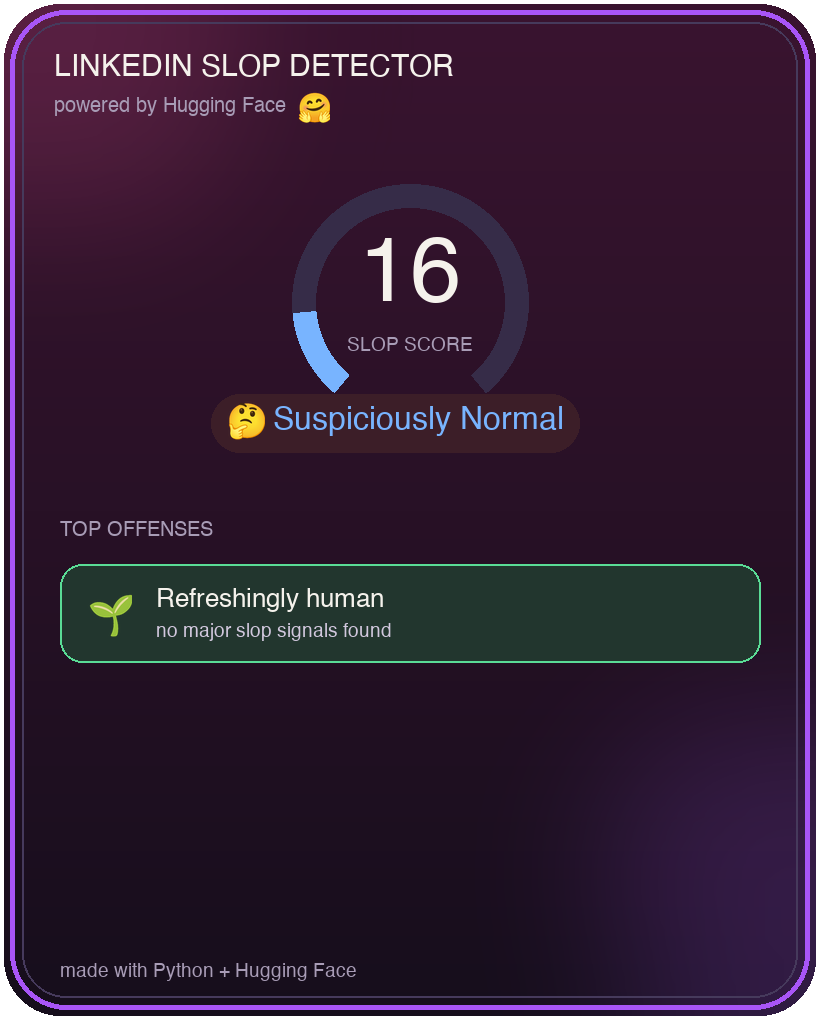
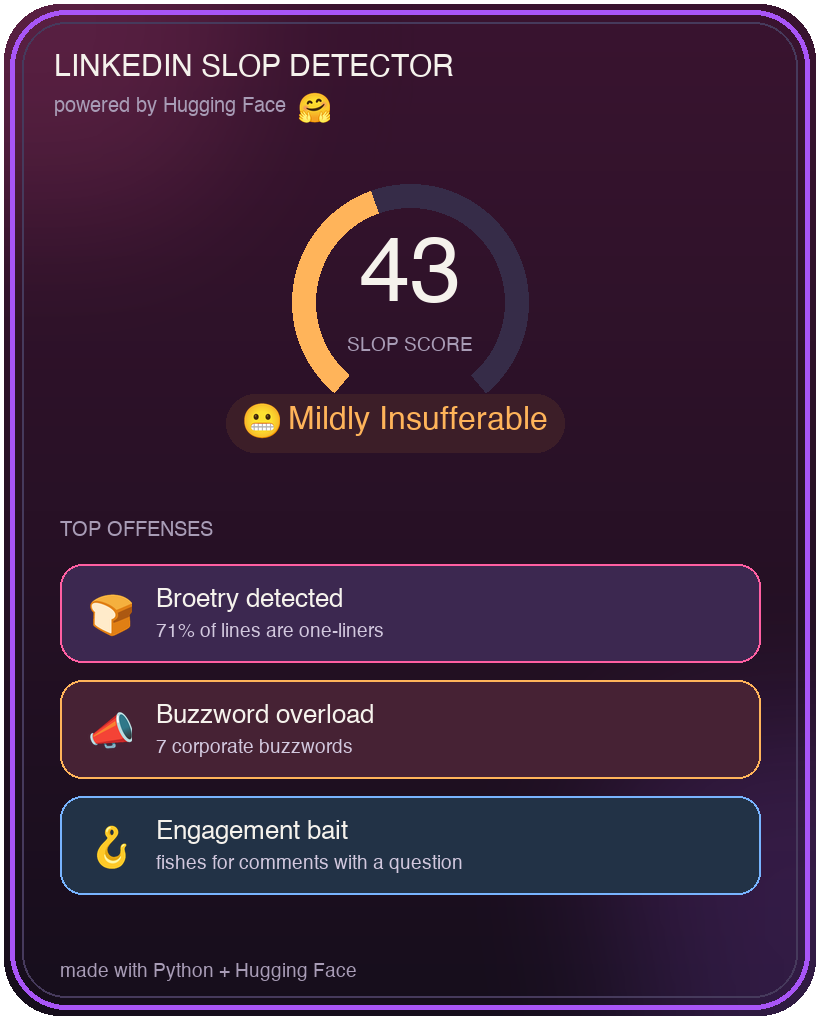
tailoring the TUTORIAL.md to beginners and removing redundant code

Changed region(s): [[0.061, 0.5471, 0.9451, 0.8814], [0.2744, 0.1824, 0.7012, 0.4559]]

diff --git a/test.py b/test.py
@@ -1,6 +1,6 @@
 import os, requests
 from dotenv import load_dotenv
-from card import make_card, offense_count
+from card import make_card
 
 load_dotenv()
 HF_TOKEN = os.environ.get("HF_TOKEN")
@@ -8,9 +8,6 @@ HF_URL = "https://router.huggingface.co/hf-inference/models/facebook/bart-large-
 BUZZWORDS = ["humbled", "thrilled to announce", "synergy", "leverage",
              "thought leader", "grateful", "blessed", "move the needle"]
 CLOSERS = ["agree?", "thoughts?", "comment below", "repost if"]
-ANTITHESIS = ["it's not just", "it's not about", "isn't just", "isn't about",
-              "isn't always", "isn't only", "not just about", "it's not that",
-              "no longer"]
 
 def count_hits(text, phrases):
     return sum(text.lower().count(p) for p in phrases)
@@ -46,9 +43,21 @@ def rule_signals(text):
     score += min(12, emoji_bullets * 2)
     score += min(12, max(0, text.count("#") - 2) * 2)
     score += min(8, max(0, dashes - 3) * 3)
-    score += min(10, count_hits(text, ANTITHESIS) * 6)
     score += min(12, anaphora_hits(text) * 3)
     return min(80, score)
+
+def offense_count(signals):
+    """How many slop signals tripped their threshold (the boxes on the card)."""
+    flags = [
+        signals["broetry"] >= 0.4,
+        signals["buzzwords"] >= 1,
+        signals["closers"] >= 1,
+        signals["hashtags"] >= 4,
+        signals["emoji_bullets"] >= 2,
+        signals["dashes"] > 3,
+        signals["anaphora"] >= 2,
+    ]
+    return sum(flags)
 
 def hf_performative_score(text, token):
     labels = ["humble authentic personal story",
@@ -69,9 +78,36 @@ def verdict(score):
 
 def main():
     text = """"
-Christina Koch (44) is an electrical engineer. She holds the record for longest continuous time in space by a woman, of 328 days. Victor Glover (46) is a US Navy test pilot. He joined Nasa in 2013 and made his first spaceflight in 2020. He was the first Black person to stay on the space station for an extended period of six months. 
+She Plays To Win STEM Challenge Day for Secondary School Girls 
+📅 26 June 2026
+🎓 Secondary School Girls STEM Challenge Day in London 
+👩🎓 Empowering girls through Chess♟️ | Maths 🔢 | Coding 💻
+Giving Girls the Best Opening Move in Life
 
-Congratulations are in order to Koch and Glover for paving the way for women and people of color.
+We are thrilled to host this amazing day with several secondary school girls and invite inspiring STEM professionals, industry leaders, innovators and role models coming together to empower the next generation of girls:
+♟️ Strategic Thinking through Chess
+💻 Creative Problem Solving through Coding
+🔢 Mathematical Confidence & Challenge
+🚀 Real-World STEM Inspiration
+
+Hugely indebted to FundApps Get with the Program Aila Money Fai M.
+STEM Learning UK 
+
+Thankful to each of our speakers for making time to join us and share their career journeys and run sessions to inspire a future engineer, scientist, technologist, entrepreneur, data scientist or innovator! Jeni Trice Nitika Vyas, CFA 
+
+Credit to the Founder Lorin D'Costa, our Trustees Kanwal Bhatia Dipal Patel Jennifer Gelain-Sohn Naheed Vyas Rashmi Prabhakar, our Volunteers Alisha Vyas Emmanuelle Gelain-Sohn for sparing time to further this cause. And some of our supporters and allies Nadia Edwards-Dashti Charlotte de Metz 
+
+By sharing experiences, challenges and successes, we can help girls see what is possible when talent meets opportunity:
+✨ Be the role model you wish you'd had.
+✨ Inspire confidence and ambition.
+✨ Help unlock future STEM careers.
+
+Empowering Girls. Building Confidence. Solving Problems, Creating Futures.
+www.sheplaystowin.co.uk
+
+hashtag#GivingGirlsTheBestOpeningMoveInLife hashtag#ShePlaysToWin hashtag#STEMChallengeDay hashtag#GirlsinSTEM hashtag#WomenInTech hashtag#FutureLeaders hashtag#GirlsInTech hashtag#GirlsWhoCode hashtag#ChessInEducation hashtag#STEMEducation hashtag#RoleModelsMatter hashtag#DiversityInTech hashtag#InspiringTheFuture hashtag#SecondarySchools hashtag#STEMCareers
+
+Chess♟️ | Maths 🔢 | Coding 💻
 
 """
 
@@ -86,7 +122,6 @@ Congratulations are in order to Koch and Glover for paving the way for women and
         "hashtags": text.count("#"),
         "emoji_bullets": sum(1 for l in lines if not l[0].isascii()),
         "dashes": count_dashes(text),
-        "antithesis": count_hits(text, ANTITHESIS),
         "anaphora": anaphora_hits(text),
     }
 

diff --git a/card.py b/card.py
@@ -65,8 +65,6 @@ def _offense_list(sig):
         n=sig["buzzwords"]; out.append(("📣","Buzzword overload", f"{n} corporate buzzword{'s' if n!=1 else ''}", AMBER,(70,34,52)))
     if sig.get("closers",0) >= 1:
         out.append(("🪝","Engagement bait", "fishes for comments with a question", BLUE,(34,50,70)))
-    if sig.get("antithesis",0) >= 1:
-        out.append(("🔁","AI antithesis", '"it\'s not X, it\'s Y" phrasing', PURPLE,(48,38,70)))
     if sig.get("hashtags",0) >= 4:
         out.append(("#️⃣","Hashtag pileup", f"{sig['hashtags']} hashtags", PURPLE,(48,38,70)))
     if sig.get("emoji_bullets",0) >= 2:
@@ -78,10 +76,6 @@ def _offense_list(sig):
     if sig.get("anaphora",0) >= 2:
         out.append(("🔁","Anaphora spam", f"{sig['anaphora']} lines reuse the same opener", PURPLE,(48,38,70)))
     return out
-
-def offense_count(sig):
-    """How many real offense boxes the card will show."""
-    return len(_offense_list(sig))
 
 def _offenses(sig):
     out = _offense_list(sig)

diff --git a/TUTORIAL.md b/TUTORIAL.md
@@ -130,7 +130,7 @@ HF_URL = "https://router.huggingface.co/hf-inference/models/facebook/bart-large-
 
 ## Add the phrases we're hunting for
 
-A lot of slop is detectable with simple patterns before we even touch AI. Let's list the classic tells: buzzwords and engagement-bait closers.
+A lot of slop is detectable with simple patterns before we even touch AI. Let's list two classic tells: corporate buzzwords and engagement-bait closers (the lines that beg for a reaction).
 
 ```python
 BUZZWORDS = ["humbled", "thrilled to announce", "synergy", "leverage",
@@ -138,41 +138,78 @@ BUZZWORDS = ["humbled", "thrilled to announce", "synergy", "leverage",
 CLOSERS = ["agree?", "thoughts?", "comment below", "repost if"]
 ```
 
-These are the phrases that show up in a lot of slop posts.
+These are phrases that show up in a lot of slop posts.
 
-## Add a helper to count phrases
+## Add the helper functions
 
-This little function counts how many times any phrase from a list shows up in the text.
+Each of these measures one slop signal. `count_hits` is a reusable helper that counts how many phrases from *any* list you hand it appear in the text (we'll point it at `BUZZWORDS` and `CLOSERS`). `engagement_bait` flags closers plus any post that ends on a question, `count_dashes` counts the dashes LLMs love, and `anaphora_hits` catches repeated line-openers (the "Culture is built when... / No more X..." pattern).
 
 ```python
 def count_hits(text, phrases):
     return sum(text.lower().count(p) for p in phrases)
+
+def engagement_bait(text):
+    hits = count_hits(text, CLOSERS)
+    if text.strip().endswith("?"):
+        hits += 1
+    return hits
+
+def count_dashes(text):
+    return text.count("—") + text.count("–") + text.count(" - ")
+
+def anaphora_hits(text):
+    from collections import Counter
+    lines = [l.strip() for l in text.splitlines() if l.strip()]
+    starts = Counter(" ".join(l.lower().split()[:2]) for l in lines if len(l.split()) >= 2)
+    return sum(c for c in starts.values() if c >= 2)
 ```
 
-We lowercase the text first so "Synergy" and "synergy" both count, then add up every match.
+`count_hits` lowercases first so "Synergy" and "synergy" both count. `anaphora_hits` groups lines by their first two words and counts any opener that repeats, since a real person rarely starts three lines exactly the same way.
 
 ## Add the rule signals
 
-Now the scoring function. It measures a few signals and turns them into a subscore out of 60.
+Now the scoring function. It measures a handful of signals and turns them into a subscore out of 80. Each `min()` cap is that signal's weight.
 
 ```python
 def rule_signals(text):
     lines = [l.strip() for l in text.splitlines() if l.strip()]
-    short = sum(1 for l in lines if len(l.split()) <= 5)
-    broetry = short / len(lines) if lines else 0
+    short = sum(1 for l in lines if len(l.split()) <= 6)
+    # only trust the one-liner ratio once there are enough lines to be meaningful
+    broetry = short / len(lines) if len(lines) >= 6 else 0
     emoji_bullets = sum(1 for l in lines if not l[0].isascii())
-    dashes = text.count("—") + text.count("–")
+    dashes = count_dashes(text)
 
     score = min(20, broetry * 28)
     score += min(14, count_hits(text, BUZZWORDS) * 4)
-    score += min(10, count_hits(text, CLOSERS) * 6)
-    score += min(8, emoji_bullets * 2)
-    score += min(8, max(0, text.count("#") - 2) * 2)
+    score += min(12, engagement_bait(text) * 6)
+    score += min(12, emoji_bullets * 2)
+    score += min(12, max(0, text.count("#") - 2) * 2)
     score += min(8, max(0, dashes - 3) * 3)
-    return min(60, score)
+    score += min(12, anaphora_hits(text) * 3)
+    return min(80, score)
 ```
 
-A few things are happening here. **Broetry** is the fraction of lines that are tiny one-liners, the signature LinkedIn format. **Emoji bullets** uses a neat trick: `isascii()` is `False` for emoji, so a line *starting* with one is almost certainly a ✨ decorative ✨ bullet. **Dashes** counts em-dashes (—) and en-dashes (–): more than three is a tell-tale sign of AI-generated text, since language models love them. Each signal is capped with `min()` so no single offense can max out the score on its own. These signals are *transparent*: you can see exactly why a post scored high.
+A few things are happening here. **Broetry** is the fraction of lines that are tiny one-liners, the signature LinkedIn format, but we only trust that ratio once a post has at least 6 lines, otherwise a 2-line post reads as "100% broetry" off a tiny sample. **Emoji bullets** uses a neat trick: `isascii()` is `False` for emoji, so a line *starting* with one is almost certainly a ✨ decorative ✨ bullet. **Dashes** counts em-dashes, en-dashes, and spaced hyphens (more than three is a strong AI tell). Each signal is capped with `min()`, and that cap is its weight, so no single offense can run away with the score. These signals are *transparent*: you can see exactly why a post scored high.
+
+## Count the offenses
+
+We also want to know *how many* signals tripped, not just the total. This count gates the verdict later: if nothing tripped, we shouldn't call a post slop no matter what the AI thinks. It reads the `signals` dict we'll build in `main()` in a moment.
+
+```python
+def offense_count(signals):
+    flags = [
+        signals["broetry"] >= 0.4,
+        signals["buzzwords"] >= 1,
+        signals["closers"] >= 1,
+        signals["hashtags"] >= 4,
+        signals["emoji_bullets"] >= 2,
+        signals["dashes"] > 3,
+        signals["anaphora"] >= 2,
+    ]
+    return sum(flags)
+```
+
+Each line is a simple threshold check, and `sum()` counts how many came back `True` (Python treats `True` as 1).
 
 ## Query the model
 
@@ -201,41 +238,58 @@ Now a function that maps a score to a verdict, so the number means something at 
 
 ```python
 def verdict(score):
-    if score >= 80: return "Certified Artisanal Slop 🥫"
-    if score >= 60: return "Peak LinkedIn Cringe 💼"
-    if score >= 40: return "Mildly Insufferable 😬"
+    if score >= 70: return "Certified Artisanal Slop 🥫"
+    if score >= 50: return "Peak LinkedIn Cringe 💼"
+    if score >= 30: return "Mildly Insufferable 😬"
+    if score >= 15: return "Suspiciously Normal 🤔"
     return "An Actual Human Wrote This 😮"
 ```
 
-Simple thresholds: the higher the score, the worse the verdict.
+Five tiers: the higher the score, the worse the verdict, with "Suspiciously Normal" as the gentle middle ground between clearly human and mildly slop.
 
 ## Wire it all together
 
-Finally, a `main()` function that runs everything. It guards against a missing token, scores a sample post, blends the two halves (rules out of 60, AI scaled to 40), and prints the result.
+Finally, a `main()` function that runs everything. It scores a sample post, builds the `signals` dict, and blends the two halves: if no offense boxes tripped, it trusts the AI alone (kept low), otherwise it scales the rules-plus-AI blend up by 1.4 to use the full range.
 
 ```python
 def main():
-    if not HF_TOKEN:
-        raise SystemExit("No token found. Add HF_TOKEN=hf_... to your .env file.")
-
     text = """I got rejected 100 times.
 Then everything changed.
 Here's what I learned 👇
-I'm humbled and grateful to announce I'm now a thought leader.
 We need to leverage synergy to move the needle.
+Culture is built when teams win.
+Culture is built when people care.
 Agree?
 #motivation #grindset #blessed"""
 
     rules = rule_signals(text)
     hf = hf_performative_score(text, HF_TOKEN)
-    score = round(min(100, rules + hf * 40))
+
+    lines = [l.strip() for l in text.splitlines() if l.strip()]
+    signals = {
+        "broetry": (sum(1 for l in lines if len(l.split()) <= 6) / len(lines)) if len(lines) >= 6 else 0,
+        "buzzwords": count_hits(text, BUZZWORDS),
+        "closers": engagement_bait(text),
+        "hashtags": text.count("#"),
+        "emoji_bullets": sum(1 for l in lines if not l[0].isascii()),
+        "dashes": count_dashes(text),
+        "anaphora": anaphora_hits(text),
+    }
+
+    if offense_count(signals) == 0:
+        # no tells flagged: lean on the AI alone, kept low
+        score = round(hf * 25)
+    else:
+        # scale the whole blend up to use the full range
+        score = round(min(100, (rules + hf * 40) * 1.4))
+
     print(f"\n  Slop Score: {score}/100  —  {verdict(score)}\n")
 
 if __name__ == "__main__":
     main()
 ```
 
-Splitting the score this way is deliberate: if the AI is unsure, the transparent rules still ground the result, and vice versa. A genuinely useful pattern for any "AI + heuristics" project. To score a different post, just swap the text between the `"""` triple quotes.
+Two ideas make this robust. The `signals` dict holds every raw signal, and `offense_count` reads it to gate the verdict: a post with zero tripped signals can't be slop, so we lean on the AI alone and keep the score low. Everything else gets the full blended score, scaled up so the mid-range fills in. To score a different post, just swap the text between the `"""` triple quotes.
 
 ## Run the project
 
@@ -244,7 +298,7 @@ python slop.py
 ```
 
 ```
-  Slop Score: 88/100  —  Certified Artisanal Slop 🥫
+  Slop Score: 43/100  —  Mildly Insufferable 😬
 ```
 
 Try it on posts from your feed. The worse the post, the higher the score.
@@ -256,22 +310,16 @@ A terminal score is fun, but you want something to *post*. Grab two files from t
 - **[`card.py`](https://github.com/anp-exe/detect-ai-slop-tutorial/blob/main/card.py)**: the card generator
 - **`NotoColorEmoji.ttf`**: the emoji font, so your card looks the same on every computer
 
-Add the import at the top of `slop.py`, then build the signals dict and call `make_card` at the end of `main()`. The card needs the raw signals (not the verdict text) so it can list your top offenses:
+You already built the `signals` dict in `main()`, so the card just needs two lines. Add the import at the top of `slop.py`:
 
 ```python
 from card import make_card
+```
 
-# gather the same signals the card needs, then draw it
-lines = [l.strip() for l in text.splitlines() if l.strip()]
-signals = {
-    "broetry": (sum(1 for l in lines if len(l.split()) <= 5) / len(lines)) if lines else 0,
-    "buzzwords": count_hits(text, BUZZWORDS),
-    "closers": count_hits(text, CLOSERS),
-    "hashtags": text.count("#"),
-    "emoji_bullets": sum(1 for l in lines if not l[0].isascii()),
-    "dashes": text.count("—") + text.count("–"),
-}
-make_card(score, signals)
+then call it at the very end of `main()`, passing the score and the signals it uses to draw your top offenses:
+
+```python
+    make_card(score, signals)
 ```
 
 Run `slop.py` again and a `slop_card.png` appears in your folder, ready to post. 🎉